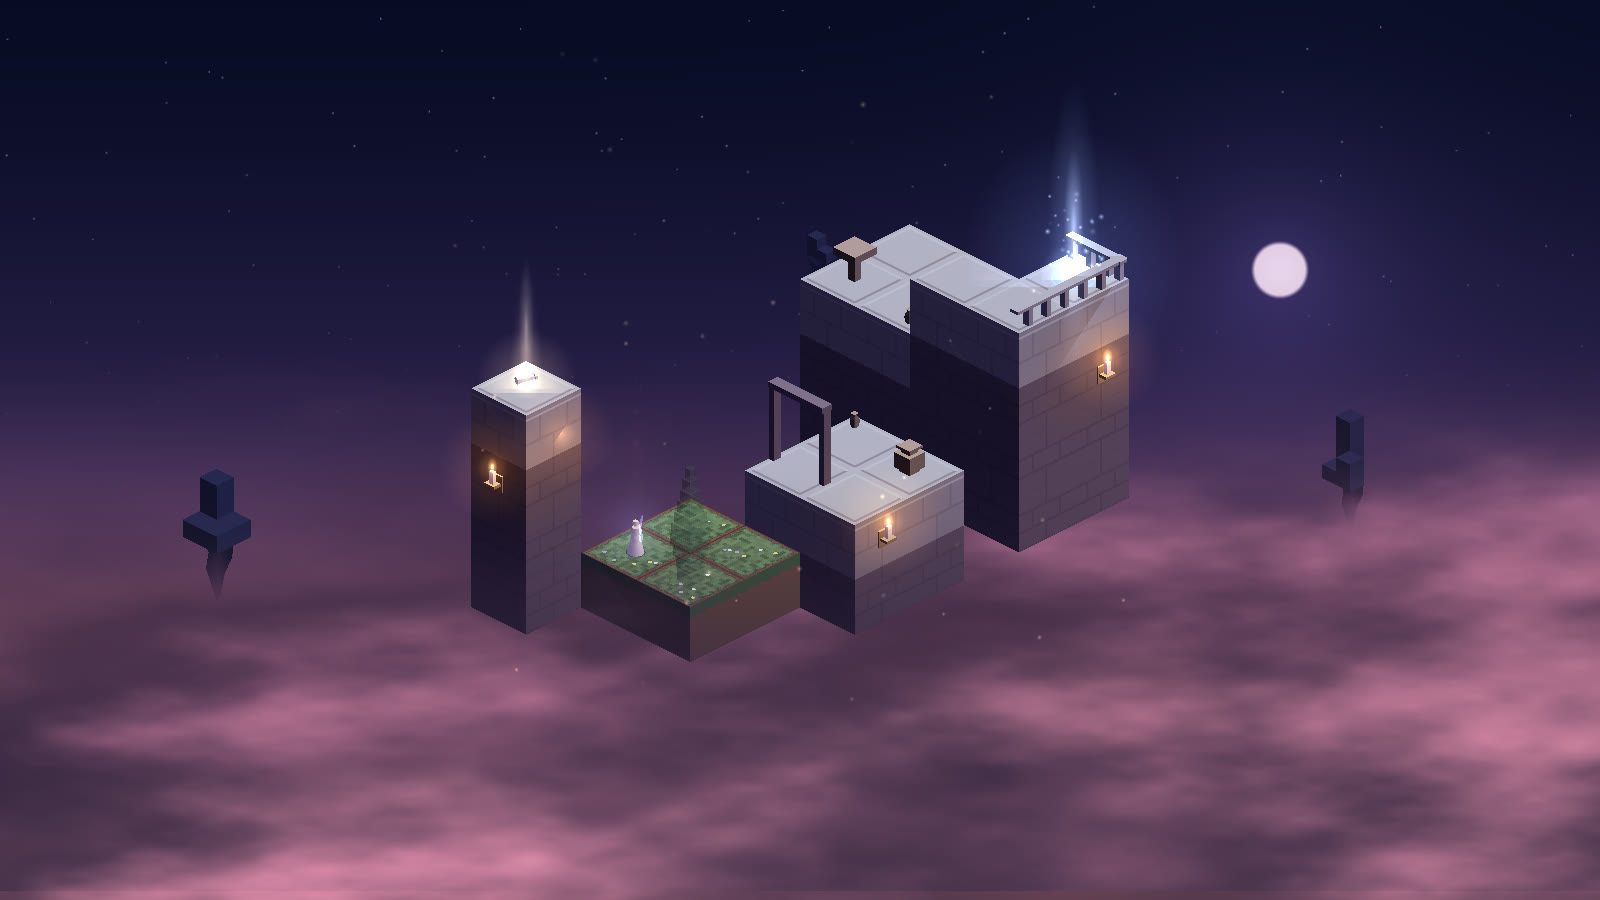
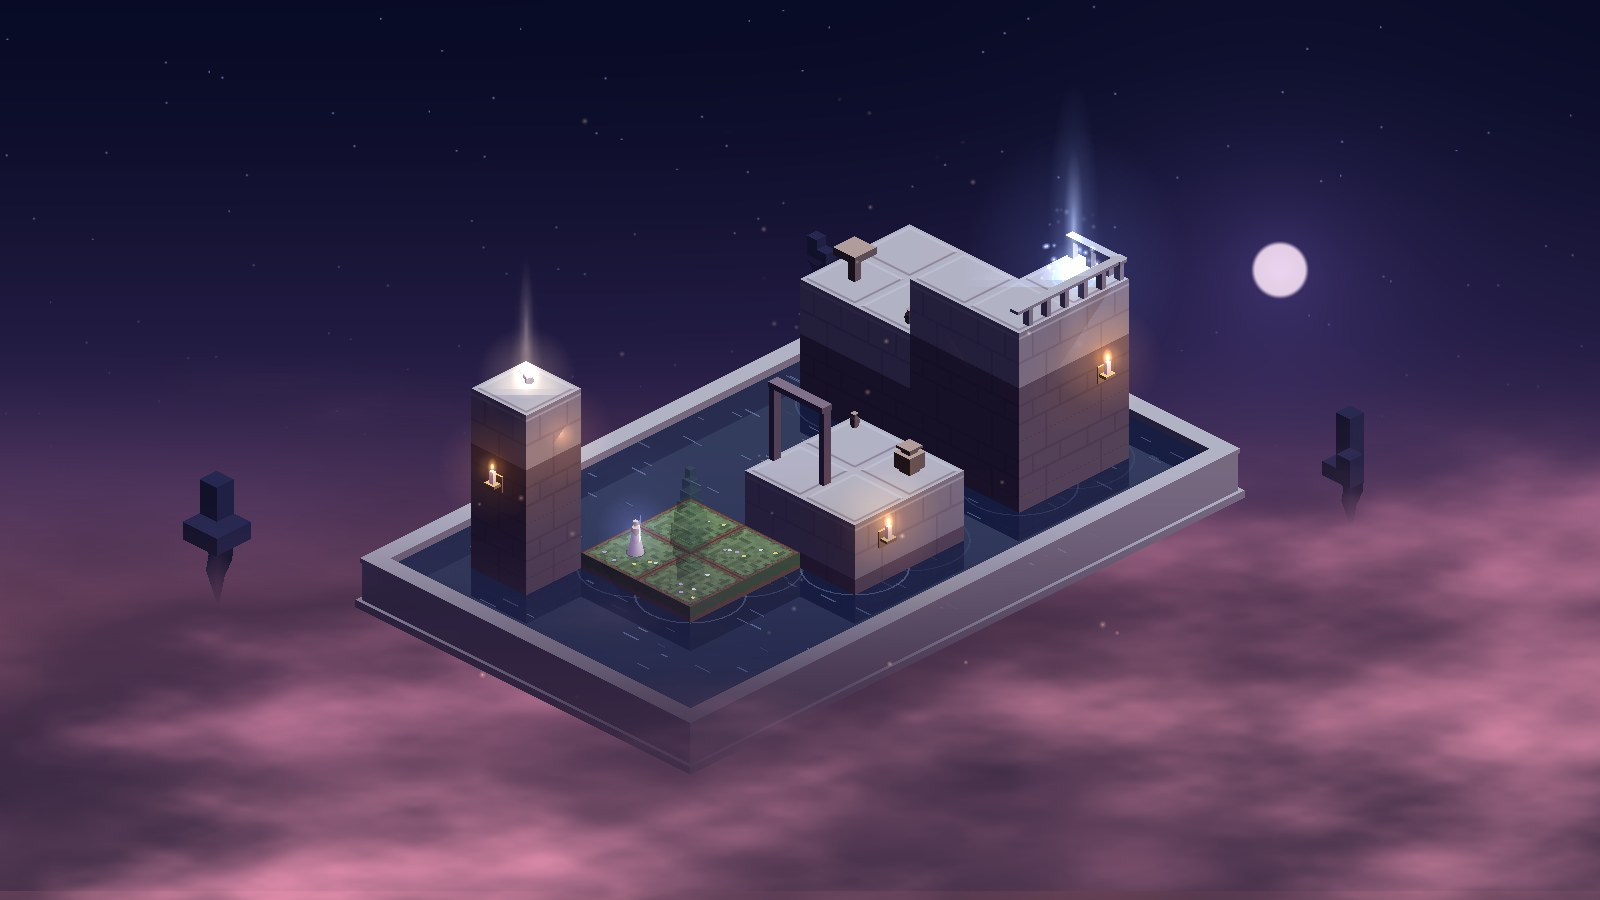
README and devlog: new shots of the refined levels (every diorama in its basin), the title over II.4's marble basin, two more in the gallery (IV.5 by night, Proserpina's kingdom turned over); the devlog tells the basins' pass

Changed region(s): [[0.2188, 0.3733, 0.7812, 0.84], [0.6562, 0.2178, 0.6875, 0.3111], [0.5, 0.4667, 0.5312, 0.4978]]

diff --git a/README.md b/README.md
@@ -11,7 +11,7 @@ from Apuleius' tale of Cupid and Psyche.*
 
 <br><br>
 
-<img src="docs/screenshots/title.jpg" alt="The title screen: the temple of Ceres and Juno at dusk over a sea of clouds" width="100%">
+<img src="docs/screenshots/title.jpg" alt="The title screen: the temple of Ceres and Juno at dusk, standing in a marble basin over a sea of clouds" width="100%">
 
 <br><br>
 
@@ -31,7 +31,12 @@ to win him back.
 Turn the diorama and two stones that only *seem* to touch become a bridge. Light
 the lamp and the truth shows — until the oil runs out. Later the spindle turns
 parts of the palace, and even the time of day, and Jupiter's eagle carries her
-where no road goes.
+where no road goes. In the underworld it turns the whole world over, onto
+Proserpina's kingdom hanging beneath it, and Charon ferries her across the dark
+water.
+
+Every place is a small world of its own, standing in its basin over the clouds:
+marble for the palaces, living rock for the crags, earth for the woods.
 
 Everything you see and hear is made by code: the pieces, the sky, the music and
 every sound, footsteps included. There is not a single image or audio file in the
@@ -42,12 +47,16 @@ tale to gather in the Book. It will be released once the whole tale is told.
 
 <table>
 <tr>
-<td width="50%"><img src="docs/devlog/act1_i2.jpg" alt="A small palace of white stone at dusk over a sea of pink clouds"><br><sub><i>I · The Invisible Palace</i></sub></td>
-<td width="50%"><img src="docs/devlog/act2_ii1.jpg" alt="A forest of rock pillars and pines at night"><br><sub><i>II · Cupid's Flight</i></sub></td>
+<td width="50%"><img src="docs/devlog/act1_i2.jpg" alt="A small palace of white stone in a marble basin at dusk, over a sea of pink clouds"><br><sub><i>I · The Invisible Palace</i></sub></td>
+<td width="50%"><img src="docs/devlog/act2_ii1.jpg" alt="A forest of rock pillars and pines at night, Cupid flying away"><br><sub><i>II · Cupid's Flight</i></sub></td>
 </tr>
 <tr>
-<td><img src="docs/devlog/act3_iii4.jpg" alt="Stairs of living rock on the top of a crag by day"><br><sub><i>III · The Water of the Styx</i></sub></td>
+<td><img src="docs/devlog/act3_iii4.jpg" alt="Stairs of living rock over the black water of the Styx, by day"><br><sub><i>III · The Water of the Styx</i></sub></td>
 <td><img src="docs/devlog/act4_iv6.jpg" alt="Islands of dark rock under the red sky of the underworld"><br><sub><i>IV · The Open Box</i></sub></td>
+</tr>
+<tr>
+<td><img src="docs/devlog/act4_iv5.jpg" alt="Islands of rock by night in the land of the dead, fires burning, Charon's boats waiting"><br><sub><i>IV · The Way Back, by night</i></sub></td>
+<td><img src="docs/devlog/act4_iv6_under.jpg" alt="The world turned over: Proserpina's temple of white marble, pillars and candelabra under a violet sky"><br><sub><i>IV · Proserpina's kingdom, the world turned over</i></sub></td>
 </tr>
 <tr>
 <td colspan="2"><img src="docs/devlog/levels.jpg" alt="The level select: the chosen place sleeping behind its panel"><br><sub>Choosing a level</sub></td>

diff --git a/docs/devlog.md b/docs/devlog.md
@@ -142,3 +142,29 @@ The same day the look became **one side panel** shared by the levels, the settin
 Book: the lamp's side darkened, tabs in capitals along the top, the controls at the foot,
 "[Esc] Back" in the corner. The frosted glass of the old settings, with its blur shader, was
 removed.
+
+## A basin for every diorama
+
+Later on October 16, before the playtest, a pass of coherence across all the levels: the first
+acts floated over the void while the later ones stood in water. Now every place stands on
+something of its own.
+
+![IV.5 The Way Back by night: fires on the islands, Charon's boats waiting](devlog/act4_iv5.jpg)
+
+*IV.5 — The Way Back, by night: the land of the dead under a cold moon, fires on the islands.*
+
+- **The basin**: a low wall on a plinth around the diorama, water inside. Its rim is marble for
+  the palaces and temples, living rock for the crags and the Styx, earth for the woods and the
+  pasture; the whole diorama stays inside it (the level loader refuses anything on the rim).
+- **The fluid**: water coloured by the setting (blue at night, rose at sunset, black on the
+  Styx), or a swamp, still and dark, with algae and slow bubbles (II.1).
+- **The underworld**: where the world turns over the basin has no bottom, so Proserpina's
+  kingdom still hangs beneath it; the rim opens where Charon's boat leaves. IV.2 and IV.3 keep
+  their void: there it *is* the hanging world.
+- **Two souls**: IV.4 and IV.5 took IV.6's crags above and temple below, every piece kept only
+  if the solver's plans stayed the same; IV.5 went to night, with fires that light the stones
+  and crackle as she passes, and Charon's boats are now pale wood against the dark.
+
+![IV.6 turned over: Proserpina's temple of marble inside the rim](devlog/act4_iv6_under.jpg)
+
+*IV.6 turned over: Proserpina's temple, pillars and candelabra under a violet sky.*
